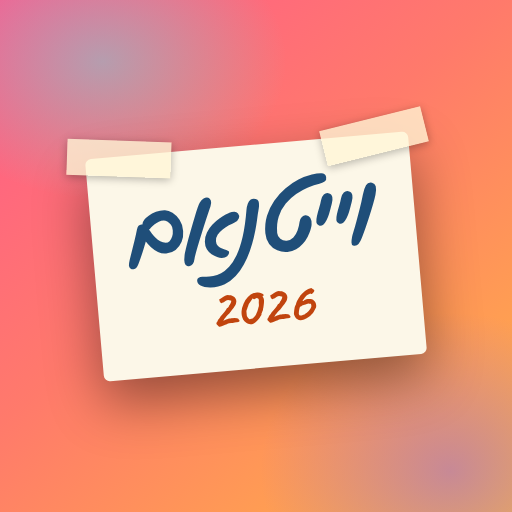
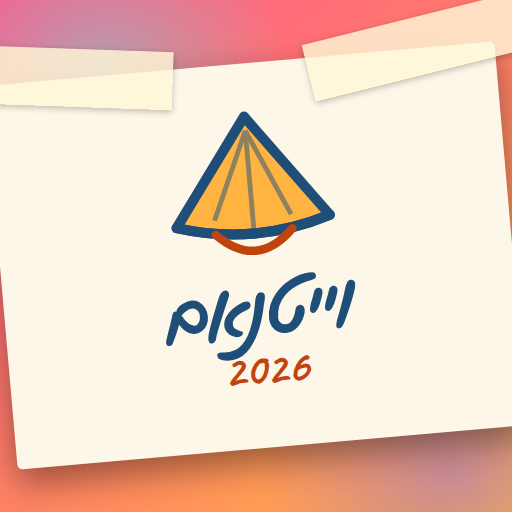
Replace the emoji dragon with a real brand mark
The 🐉 in the header and on the gate was a system emoji — it rendered
differently on every phone and was the least branded thing in the app. It
is now the nón lá, the Vietnamese conical hat, drawn as SVG: one symbol
reused in the header and gate, and rendered into the PNG icon set on the
taped-paper note with the handwritten wordmark.

Small sizes get a flat, filled version — the outlined hat with its ribs
turns to mud below about 48px.

Also adds Open Graph tags and a 1200x630 card, so sharing the link in
WhatsApp shows a branded preview instead of a bare URL.

SW VERSION -> v2 so phones that already cached v1 pick up the new mark.

Claude-Session: https://claude.ai/code/session_01NRcZ15YuEZZHAZUxS1jpaj

diff --git a/index.html b/index.html
@@ -11,8 +11,21 @@
 <title>וייטנאם 2026</title>
 <link rel="stylesheet" href="./fonts/fonts.css">
 <link rel="manifest" href="./manifest.webmanifest">
+<link rel="icon" href="./icons/favicon-32.png" sizes="32x32">
+<link rel="icon" href="./icons/favicon-16.png" sizes="16x16">
 <link rel="icon" href="./icons/icon-192.png" sizes="192x192">
 <link rel="apple-touch-icon" href="./icons/apple-touch-icon.png">
+
+<!-- Link preview when the URL is shared in WhatsApp / iMessage. -->
+<meta property="og:type" content="website">
+<meta property="og:title" content="וייטנאם 2026">
+<meta property="og:description" content="האפליקציה של הטיול שלנו — 19 ימים, ציד המציאות, מדברור ומדליות.">
+<meta property="og:image" content="https://lalomavi-collab.github.io/vietnam2026/icons/og.png">
+<meta property="og:image:width" content="1200">
+<meta property="og:image:height" content="630">
+<meta property="og:url" content="https://lalomavi-collab.github.io/vietnam2026/">
+<meta property="og:locale" content="he_IL">
+<meta name="twitter:card" content="summary_large_image">
 <style>
 /* ── base ─────────────────────────────────────────────────────────── */
 html,body{margin:0;padding:0;background:#0d1020;-webkit-tap-highlight-color:transparent}
@@ -58,7 +71,8 @@ input{font-family:inherit}
 .hdr-row{position:relative;display:flex;align-items:center;gap:10px;padding:11px 15px 12px}
 .hero-strip{position:absolute;inset:0;overflow:hidden;pointer-events:none;opacity:.34}
 .hero-pic{position:absolute;top:var(--top);right:var(--right);width:86px;height:70px;background-size:cover;background-position:center;transform:rotate(var(--rot));border:3px solid rgba(255,255,255,.5)}
-.logo{position:relative;width:46px;height:46px;border-radius:16px;background:linear-gradient(135deg,#FF5A8C,#FFB443);display:grid;place-items:center;font-size:25px;flex:none;box-shadow:0 6px 18px rgba(255,90,140,.35);transform:rotate(-4deg)}
+.logo{position:relative;width:46px;height:46px;border-radius:16px;background:linear-gradient(135deg,#FF5A8C,#FFB443);display:grid;place-items:center;flex:none;box-shadow:0 6px 18px rgba(255,90,140,.35);transform:rotate(-4deg);color:var(--paper)}
+.logo svg{width:64%;display:block}
 .hdr-mid{position:relative;flex:1;min-width:0}
 .title-note{display:inline-block;background:var(--paper);padding:5px 13px 6px;border-radius:3px;transform:rotate(-1.5deg);box-shadow:0 4px 14px rgba(0,0,0,.4)}
 .title-note span{display:block;font-family:var(--hand);font-size:31px;color:var(--ink);line-height:1.22;letter-spacing:.5px}
@@ -226,7 +240,8 @@ input{font-family:inherit}
              radial-gradient(120% 45% at 10% 100%,rgba(122,92,255,.30),transparent 62%),
              linear-gradient(178deg,#151c36,#0f1428 60%,#161029)}
 .gate-card{width:100%;max-width:330px;text-align:center}
-.gate-logo{width:78px;height:78px;margin:0 auto 18px;border-radius:26px;background:linear-gradient(135deg,#FF5A8C,#FFB443);display:grid;place-items:center;font-size:42px;transform:rotate(-5deg);box-shadow:0 10px 30px rgba(255,90,140,.4)}
+.gate-logo{width:78px;height:78px;margin:0 auto 18px;border-radius:26px;background:linear-gradient(135deg,#FF5A8C,#FFB443);display:grid;place-items:center;transform:rotate(-5deg);box-shadow:0 10px 30px rgba(255,90,140,.4);color:var(--paper)}
+.gate-logo svg{width:62%;display:block}
 .gate-note{background:var(--paper);padding:8px 20px 11px;border-radius:3px;transform:rotate(-1.5deg);box-shadow:0 8px 24px rgba(0,0,0,.5);display:inline-block;margin-bottom:8px}
 .gate-note span{font-family:var(--hand);font-size:38px;color:var(--ink);line-height:1.2}
 .gate-sub{font-size:13px;color:#93a0c4;line-height:1.6;margin:6px 0 22px}
@@ -266,9 +281,20 @@ input{font-family:inherit}
 </style>
 </head>
 <body>
+<!-- The brand mark: nón lá, the Vietnamese conical hat. Defined once, used in
+     the header and on the gate; the PNG icons carry the full note version. -->
+<svg style="display:none" aria-hidden="true">
+  <symbol id="mk-flat" viewBox="0 0 100 78">
+    <path d="M50 6 L12 58 Q50 70 88 58 Z" fill="currentColor"/>
+    <path d="M31 64 Q50 84 69 64" fill="none" stroke="currentColor" stroke-width="7" stroke-linecap="round"/>
+  </symbol>
+</svg>
+
 <div class="gate" id="gate">
   <div class="gate-card">
-    <div class="gate-logo">🐉</div>
+    <div class="gate-logo">
+      <svg viewBox="0 0 100 78" aria-hidden="true"><use href="#mk-flat"/></svg>
+    </div>
     <div class="gate-note"><span>וייטנאם 2026</span></div>
     <p class="gate-sub">האפליקציה הזאת היא רק של מי שנוסע איתנו.<br>תקישו את הקוד המשפחתי כדי להיכנס.</p>
     <form class="gate-form" id="gateForm">
@@ -292,7 +318,7 @@ input{font-family:inherit}
     <header class="hdr">
       <div class="hdr-row">
         <div class="hero-strip" id="heroStrip" aria-hidden="true"></div>
-        <div class="logo" aria-hidden="true">🐉</div>
+        <div class="logo" aria-hidden="true"><svg viewBox="0 0 100 78"><use href="#mk-flat"/></svg></div>
         <div class="hdr-mid">
           <div class="title-note"><span>וייטנאם 2026</span></div>
         </div>

diff --git a/sw.js b/sw.js
@@ -6,7 +6,7 @@
               precached; the ⬇ button in the app fills this cache on demand,
               and this worker serves whatever is already in it. */
 
-const VERSION = 'v1';
+const VERSION = 'v2';
 const SHELL = 'vn-shell-' + VERSION;
 const PHOTOS = 'vn-photos-v1';          // kept unversioned: photos never change
 
@@ -24,7 +24,11 @@ const SHELL_FILES = [
   './icons/icon-192.png',
   './icons/icon-512.png',
   './icons/icon-maskable-512.png',
-  './icons/apple-touch-icon.png'
+  './icons/apple-touch-icon.png',
+  './icons/favicon-48.png',
+  './icons/favicon-32.png',
+  './icons/favicon-16.png',
+  './icons/og.png'
 ];
 
 self.addEventListener('install', event => {
